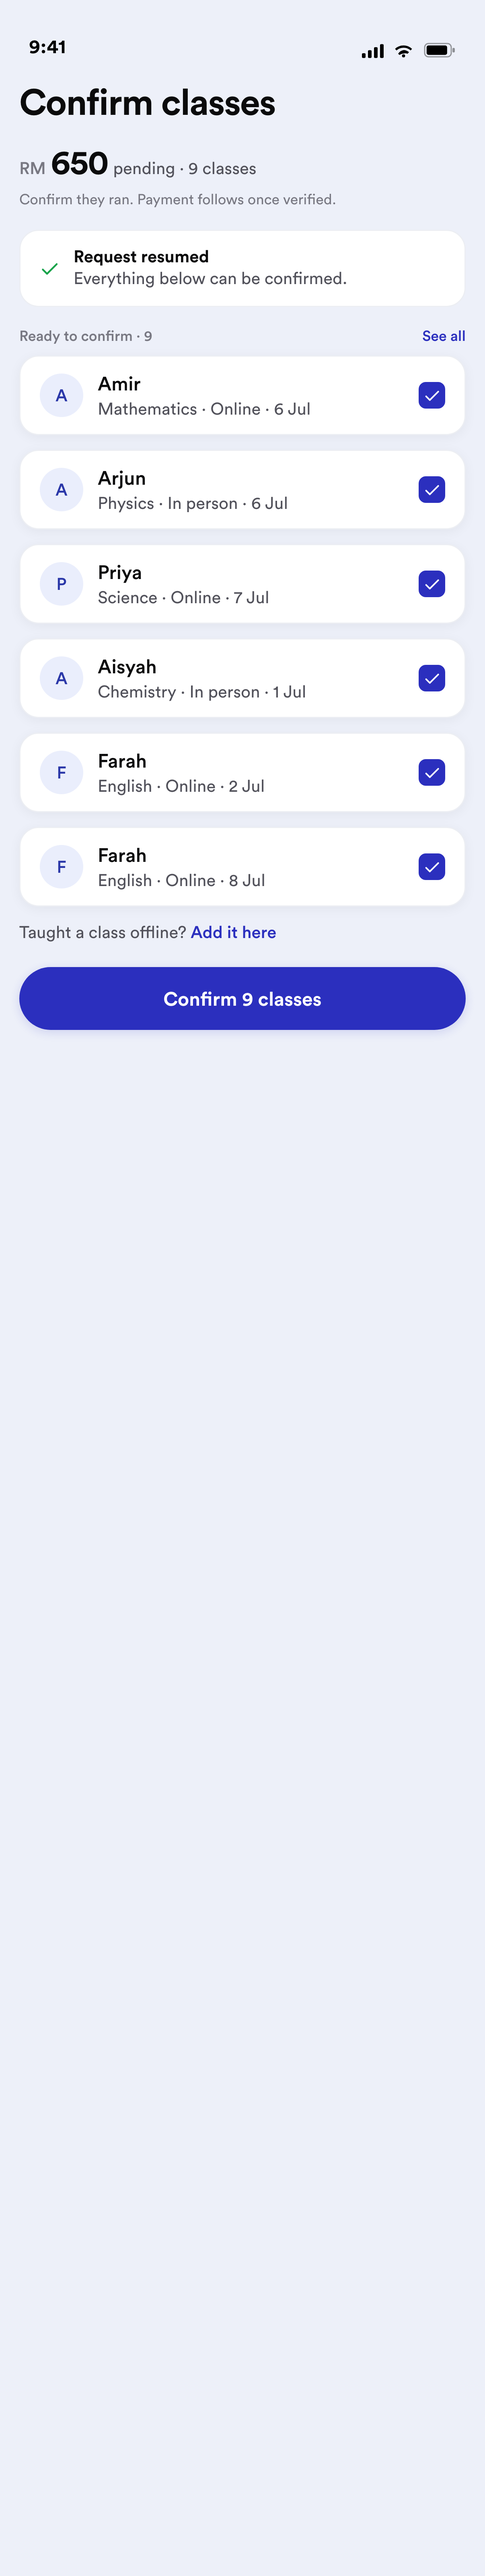
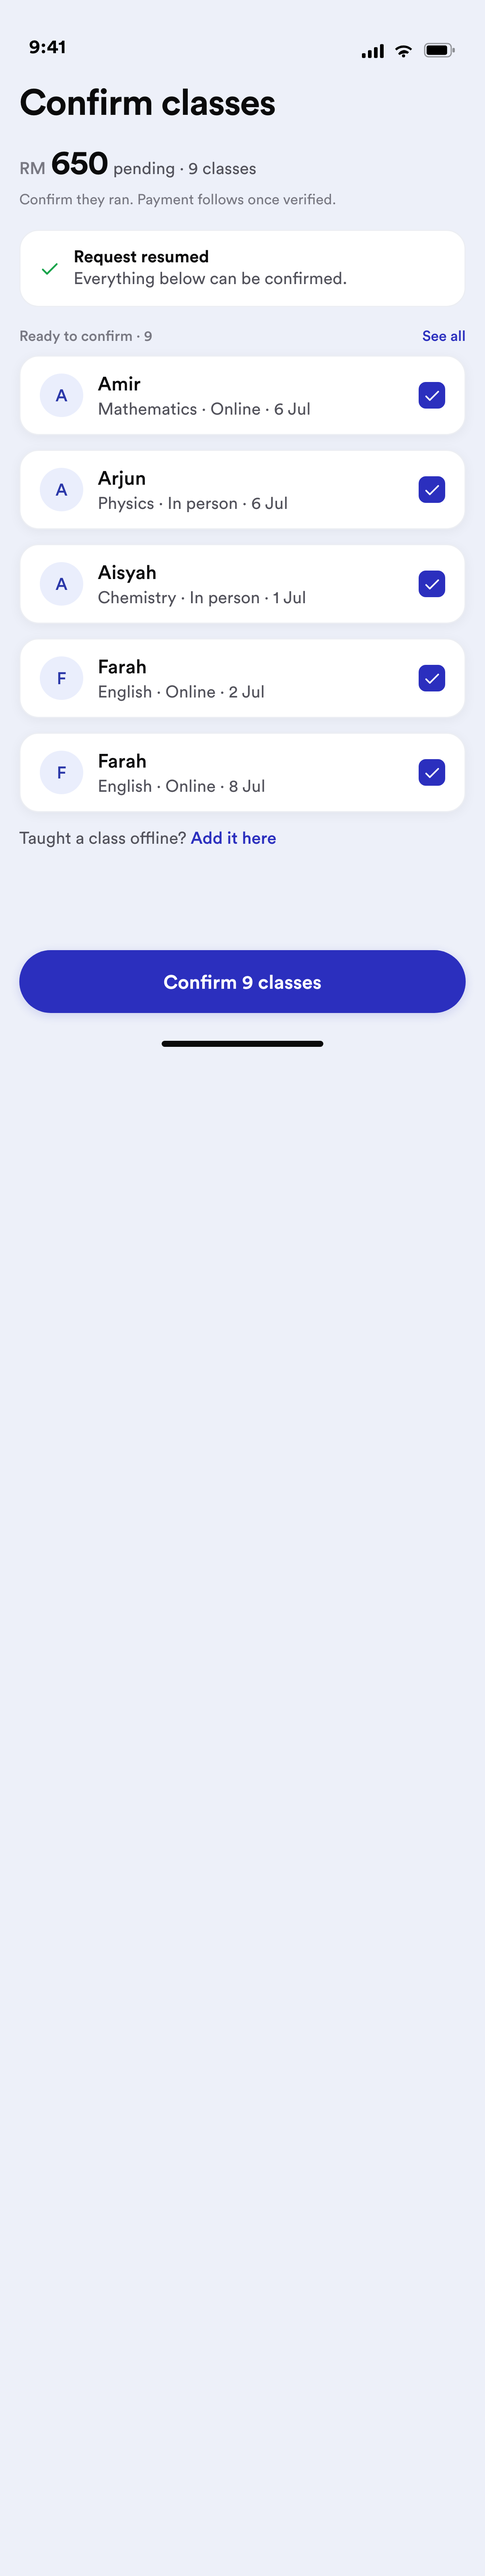
Hold-lifecycle r2 amendments: frame overflow + datesheet geometry
Independent 3-verifier pass (founder-ordered, manifest-only, non-circular)
caught 2 defects: the 6-row tutor list clipped the home indicator on all
4 r2 boards (Priya row removed; counts/money/CTA unchanged) and the
selected day rendered oval on the parent datesheet (now a fixed 36px
circle). All ~176 manifest items otherwise PASS.

Changed region(s): [[0.0307, 0.3113, 0.9818, 0.4047], [0.2148, 0.2179, 0.3375, 0.2802]]

diff --git a/parent-pause-step1-datesheet.html b/parent-pause-step1-datesheet.html
@@ -91,7 +91,8 @@ body{margin:0;padding:0;font-family:var(--font);background:#fff}
 .days{display:grid;grid-template-columns:repeat(7,1fr);row-gap:4px;text-align:center}
 .day{font-size:14px;color:var(--ink);padding:8px 0;position:relative}
 .day.dim{color:#C7C7C7}
-.day.sel{background:var(--primary);color:#fff;border-radius:999px;font-weight:700}
+.day.sel{font-weight:700;padding:0}
+.day.sel span{display:inline-flex;align-items:center;justify-content:center;width:36px;height:36px;border-radius:999px;background:var(--primary);color:#fff}
 .sfoot{display:flex;justify-content:space-between;align-items:center;margin-top:16px}
 .sclear{font-size:14px;font-weight:500;color:var(--inksoft)}
 .sdone{font-size:14px;font-weight:700;color:#fff;background:var(--primary);border-radius:999px;padding:12px 28px}
@@ -177,7 +178,7 @@ svg{display:block}
     <div class="day">21</div>
     <div class="day">22</div>
     <div class="day">23</div>
-    <div class="day sel">24</div>
+    <div class="day sel"><span>24</span></div>
     <div class="day">25</div>
     <div class="day">26</div>
     <div class="day">27</div>

diff --git a/confirm-kit--onhold-r2-sheet.html b/confirm-kit--onhold-r2-sheet.html
@@ -111,14 +111,6 @@ svg{display:block}
   <div class="cb on"><svg width="14" height="14" viewBox="0 0 256 256" style="color:#fff"><path fill="currentColor" d="M232.49 80.49l-128 128a12 12 0 0 1-17 0l-56-56a12 12 0 1 1 17-17L96 183L215.51 63.51a12 12 0 0 1 17 17Z"/></svg></div>
  </div>
  <div class="card rrow">
-  <div class="ravi">P</div>
-  <div class="rmid">
-   <div class="rt">Priya</div>
-   <div class="rs">Science &middot; Online &middot; 7 Jul</div>
-  </div>
-  <div class="cb on"><svg width="14" height="14" viewBox="0 0 256 256" style="color:#fff"><path fill="currentColor" d="M232.49 80.49l-128 128a12 12 0 0 1-17 0l-56-56a12 12 0 1 1 17-17L96 183L215.51 63.51a12 12 0 0 1 17 17Z"/></svg></div>
- </div>
- <div class="card rrow">
   <div class="ravi">A</div>
   <div class="rmid">
    <div class="rt">Aisyah</div>

diff --git a/confirm-kit--onhold-r2.html b/confirm-kit--onhold-r2.html
@@ -111,14 +111,6 @@ svg{display:block}
   <div class="cb on"><svg width="14" height="14" viewBox="0 0 256 256" style="color:#fff"><path fill="currentColor" d="M232.49 80.49l-128 128a12 12 0 0 1-17 0l-56-56a12 12 0 1 1 17-17L96 183L215.51 63.51a12 12 0 0 1 17 17Z"/></svg></div>
  </div>
  <div class="card rrow">
-  <div class="ravi">P</div>
-  <div class="rmid">
-   <div class="rt">Priya</div>
-   <div class="rs">Science &middot; Online &middot; 7 Jul</div>
-  </div>
-  <div class="cb on"><svg width="14" height="14" viewBox="0 0 256 256" style="color:#fff"><path fill="currentColor" d="M232.49 80.49l-128 128a12 12 0 0 1-17 0l-56-56a12 12 0 1 1 17-17L96 183L215.51 63.51a12 12 0 0 1 17 17Z"/></svg></div>
- </div>
- <div class="card rrow">
   <div class="ravi">A</div>
   <div class="rmid">
    <div class="rt">Aisyah</div>

diff --git a/confirm-kit--released-r2.html b/confirm-kit--released-r2.html
@@ -111,14 +111,6 @@ svg{display:block}
   <div class="cb on"><svg width="14" height="14" viewBox="0 0 256 256" style="color:#fff"><path fill="currentColor" d="M232.49 80.49l-128 128a12 12 0 0 1-17 0l-56-56a12 12 0 1 1 17-17L96 183L215.51 63.51a12 12 0 0 1 17 17Z"/></svg></div>
  </div>
  <div class="card rrow">
-  <div class="ravi">P</div>
-  <div class="rmid">
-   <div class="rt">Priya</div>
-   <div class="rs">Science &middot; Online &middot; 7 Jul</div>
-  </div>
-  <div class="cb on"><svg width="14" height="14" viewBox="0 0 256 256" style="color:#fff"><path fill="currentColor" d="M232.49 80.49l-128 128a12 12 0 0 1-17 0l-56-56a12 12 0 1 1 17-17L96 183L215.51 63.51a12 12 0 0 1 17 17Z"/></svg></div>
- </div>
- <div class="card rrow">
   <div class="ravi">A</div>
   <div class="rmid">
    <div class="rt">Aisyah</div>

diff --git a/confirm-kit--resume-pending-r2.html b/confirm-kit--resume-pending-r2.html
@@ -111,14 +111,6 @@ svg{display:block}
   <div class="cb on"><svg width="14" height="14" viewBox="0 0 256 256" style="color:#fff"><path fill="currentColor" d="M232.49 80.49l-128 128a12 12 0 0 1-17 0l-56-56a12 12 0 1 1 17-17L96 183L215.51 63.51a12 12 0 0 1 17 17Z"/></svg></div>
  </div>
  <div class="card rrow">
-  <div class="ravi">P</div>
-  <div class="rmid">
-   <div class="rt">Priya</div>
-   <div class="rs">Science &middot; Online &middot; 7 Jul</div>
-  </div>
-  <div class="cb on"><svg width="14" height="14" viewBox="0 0 256 256" style="color:#fff"><path fill="currentColor" d="M232.49 80.49l-128 128a12 12 0 0 1-17 0l-56-56a12 12 0 1 1 17-17L96 183L215.51 63.51a12 12 0 0 1 17 17Z"/></svg></div>
- </div>
- <div class="card rrow">
   <div class="ravi">A</div>
   <div class="rmid">
    <div class="rt">Aisyah</div>
